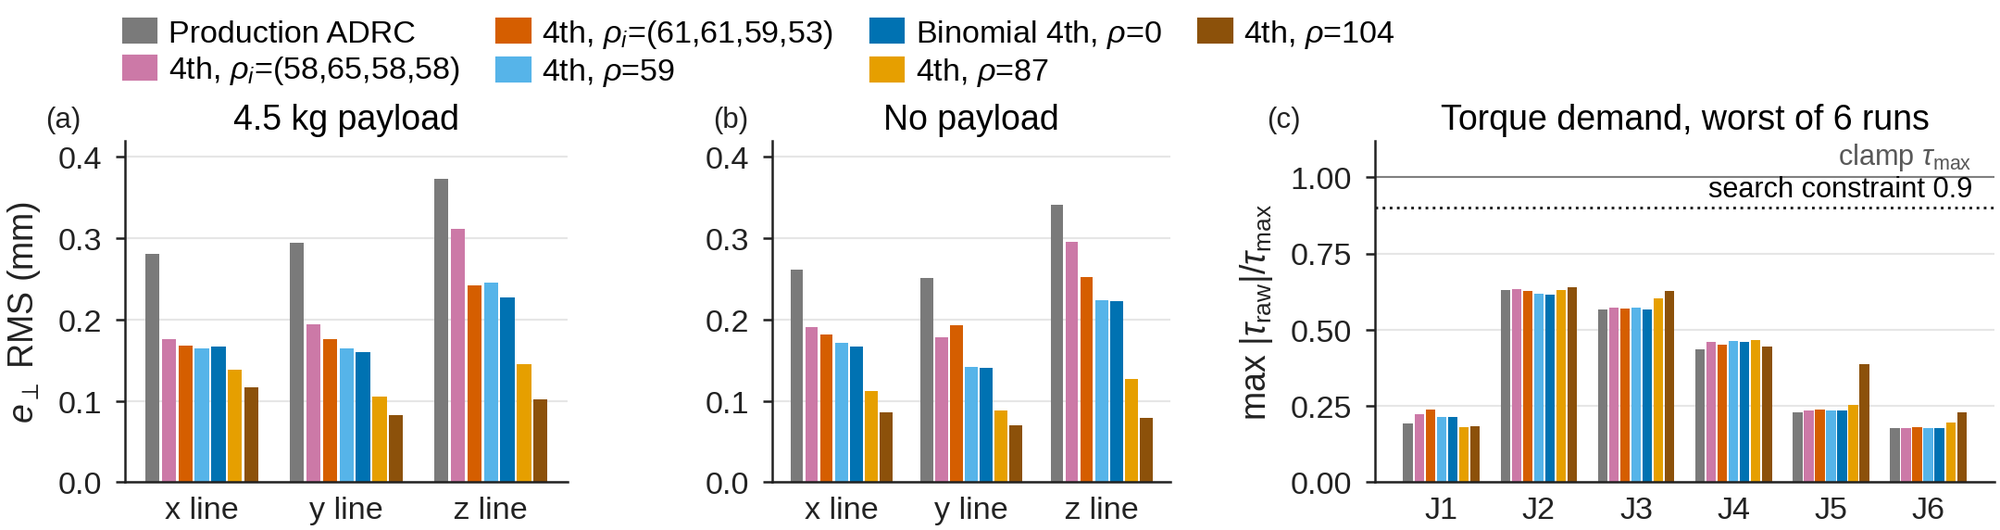
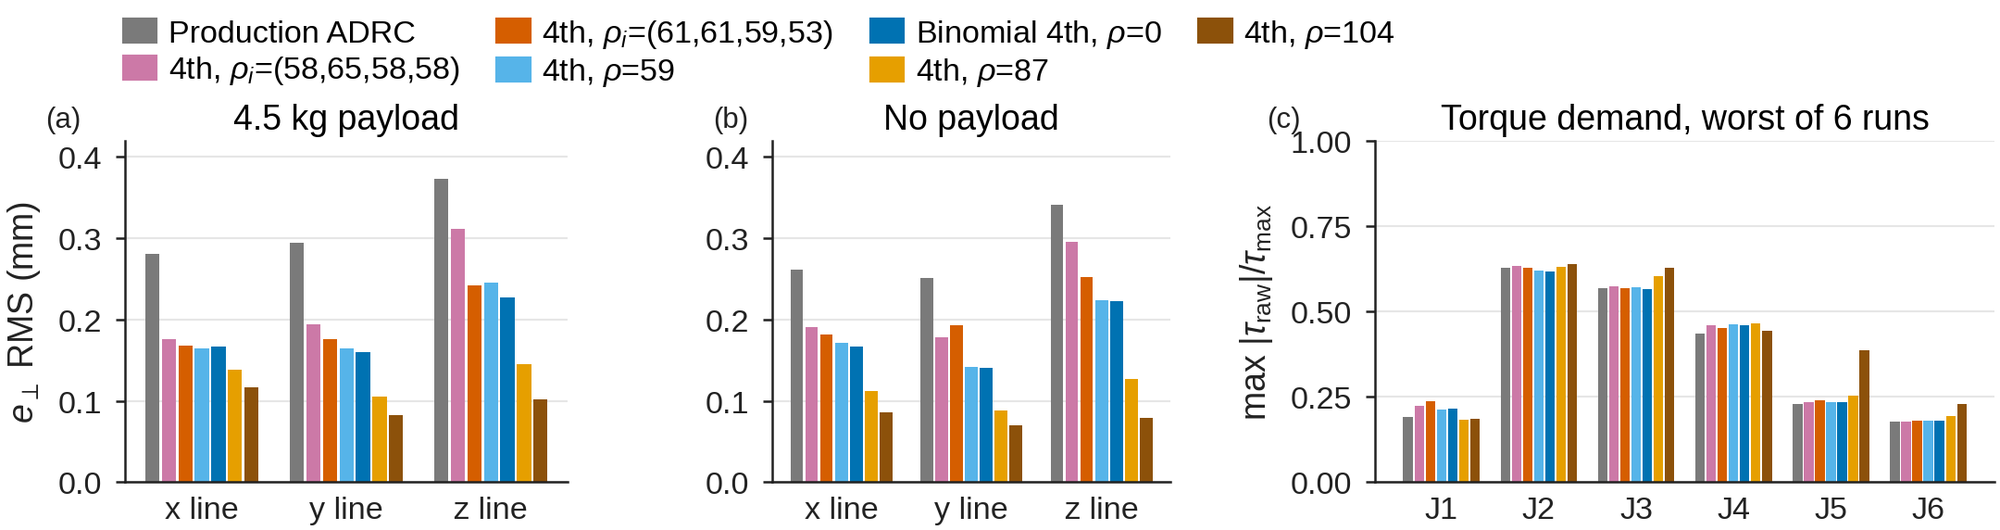
Hardware bar chart: constraint and clamp reference lines removed

diff --git a/index.html b/index.html
@@ -117,7 +117,7 @@
         <div class="media-grid single">
           <figure class="media-card">
             <img src="assets/hw_bars.png" alt="Perpendicular-error RMS of each setting on the x, y and z lines with and without the payload, and the reconstructed torque demand of each joint relative to its clamp.">
-            <figcaption>Hardware results with the production gains: perpendicular-error RMS (a) with the 4.5 kg payload and (b) without it; (c) reconstructed torque demand of each joint relative to its clamp, worst case over the three lines and both load conditions; the dotted line is the bound used in the search.</figcaption>
+            <figcaption>Hardware results with the production gains: perpendicular-error RMS (a) with the 4.5 kg payload and (b) without it; (c) reconstructed torque demand of each joint relative to its clamp, worst case over the three lines and both load conditions.</figcaption>
           </figure>
         </div>
       </div>
